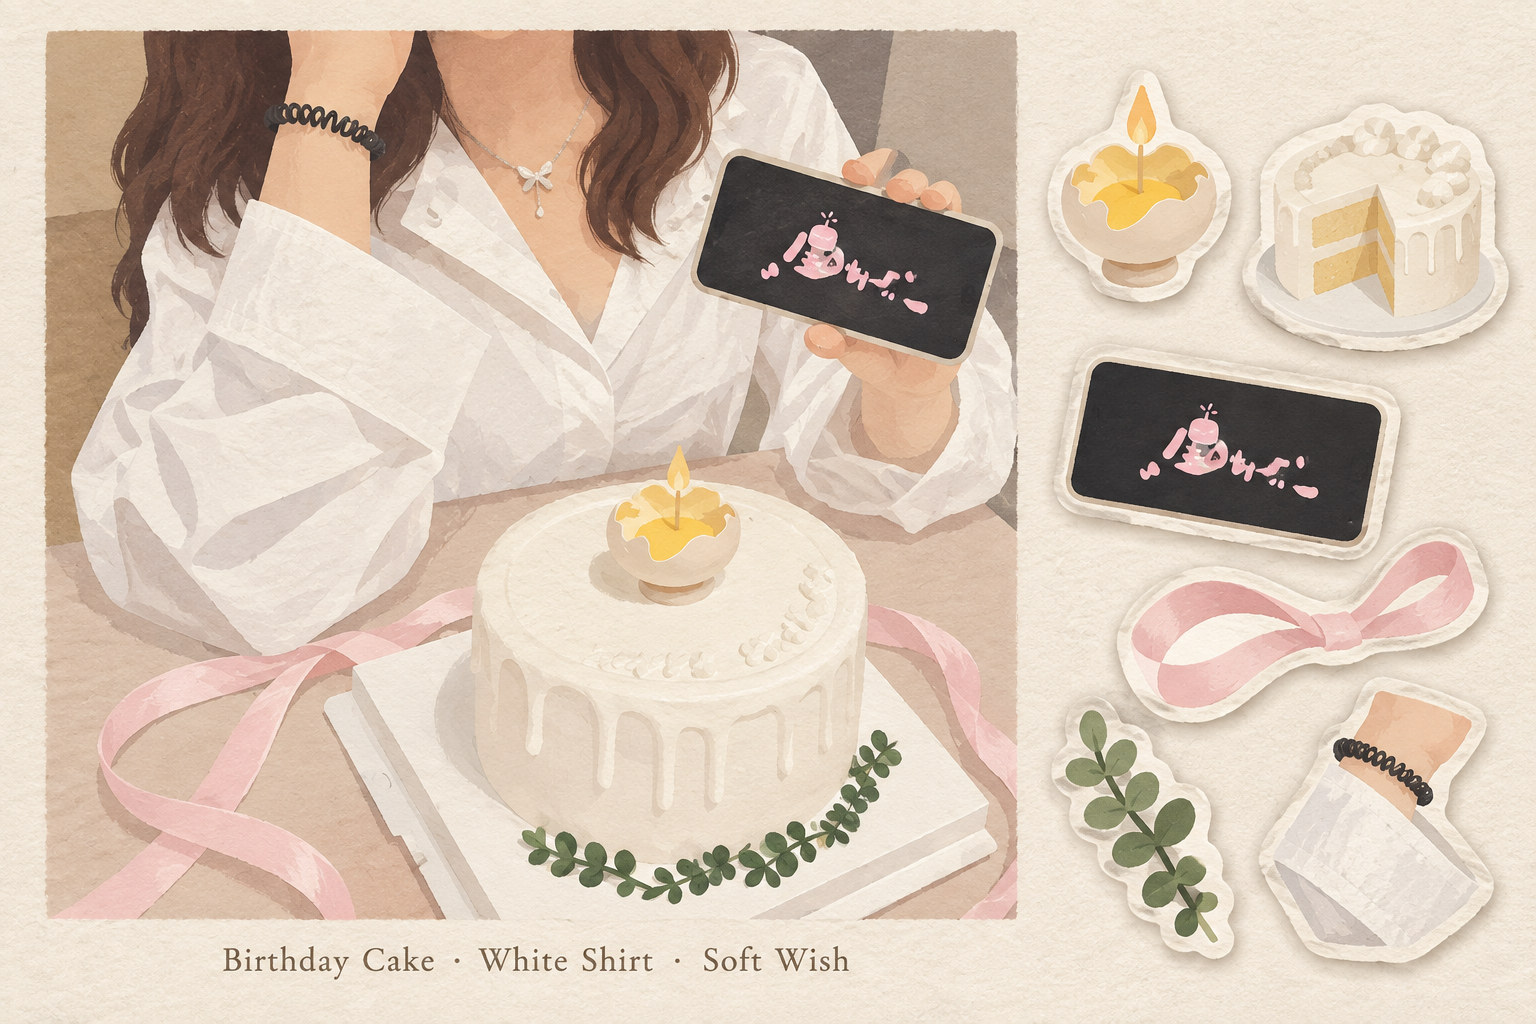
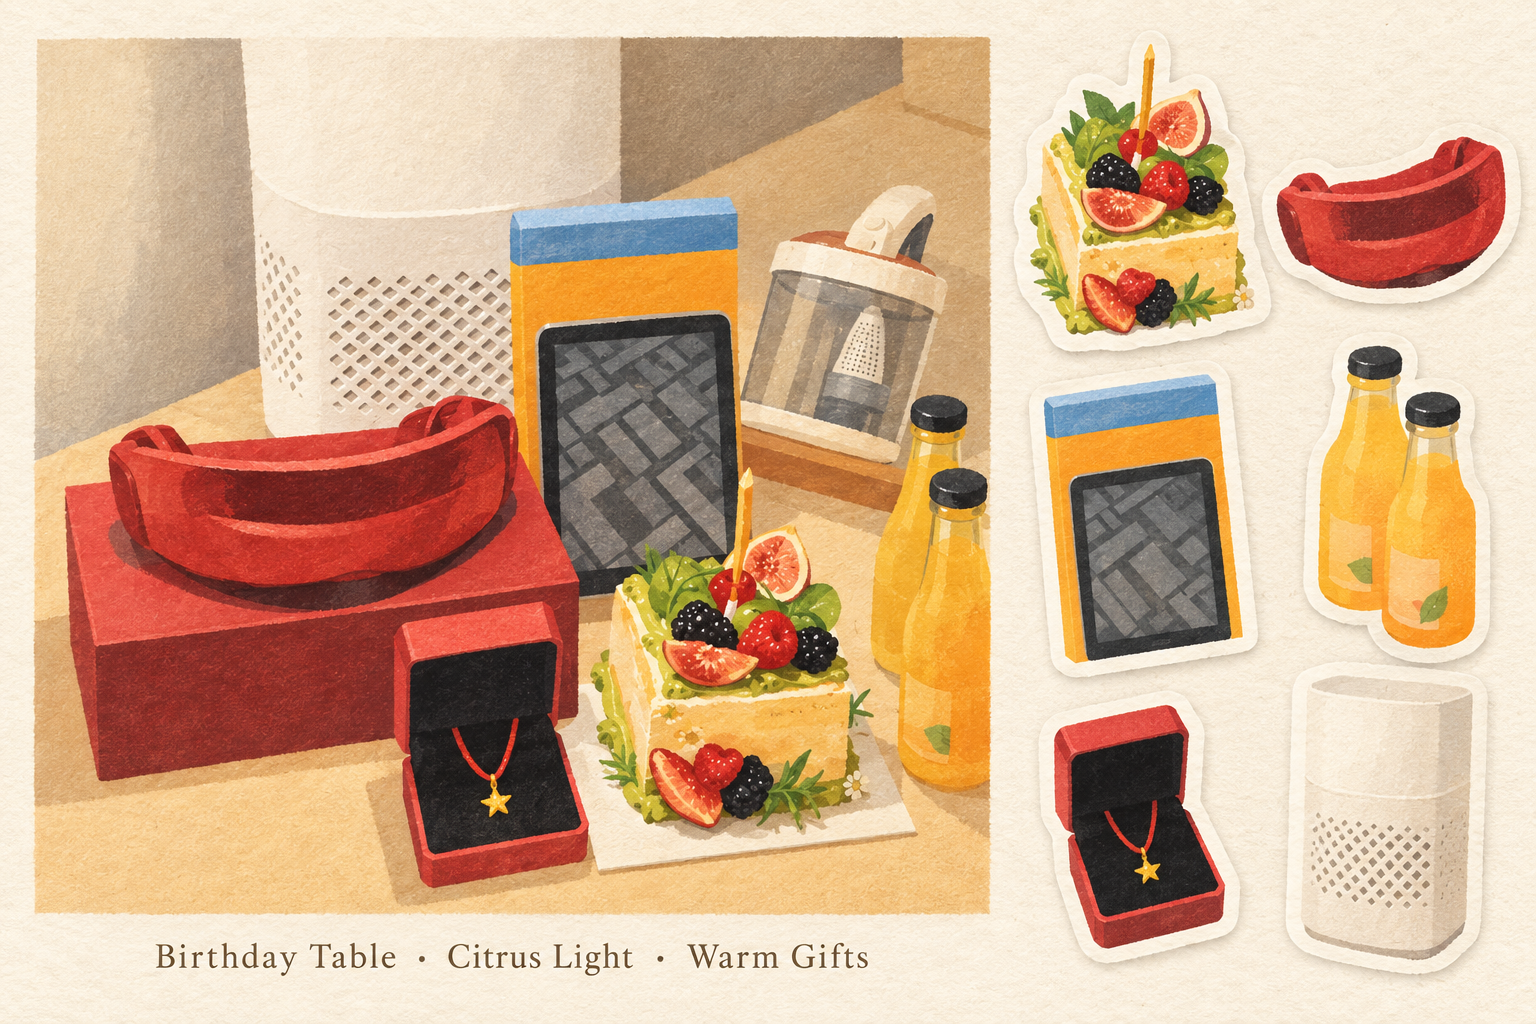
Replace birthday easter egg card

diff --git a/easter_egg_scene.html b/easter_egg_scene.html
@@ -153,7 +153,7 @@
   <script>
     const pages = [
       {
-        title: "生日蛋糕和你",
+        title: "属于你美好的生日",
         original: "./assets/easter-egg/birthday-cake-original.jpg",
         card: "./assets/easter-egg/birthday-cake-memory-card.png"
       },
